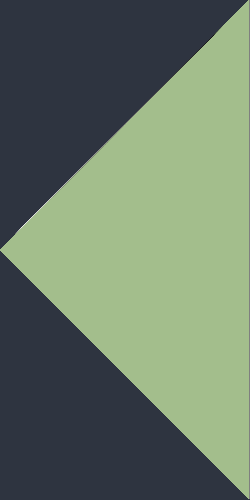
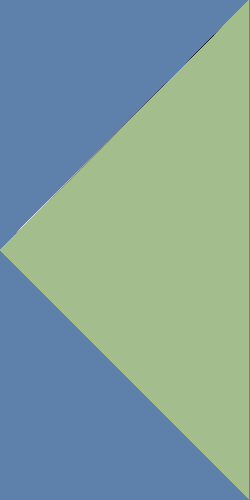
update

diff --git a/.config/qtile/config.py b/.config/qtile/config.py
@@ -132,6 +132,8 @@ extension_defaults = widget_defaults.copy()
 
 screens = [
     Screen(
+        wallpaper="~/wallpaper.png",
+        wallpaper_mode="stretch",
         bottom=bar.Bar(
             [
                 widget.GroupBox(
@@ -142,8 +144,9 @@ screens = [
                     this_current_screen_border="#bf616a",
                     highlight_color=["#434c5e"]
                 ),
+                widget.Image(filename="~/.config/qtile/assets/corner0.png"),
                 widget.Prompt(),
-                widget.WindowName(),
+                widget.WindowName(background="#5e81ac"),
                 widget.Chord(
                     chords_colors={
                         "launch": ("#ff0000", "#ffffff"),
